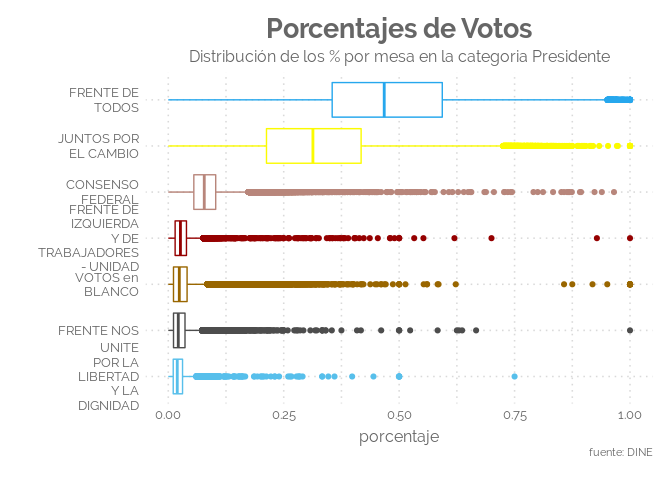
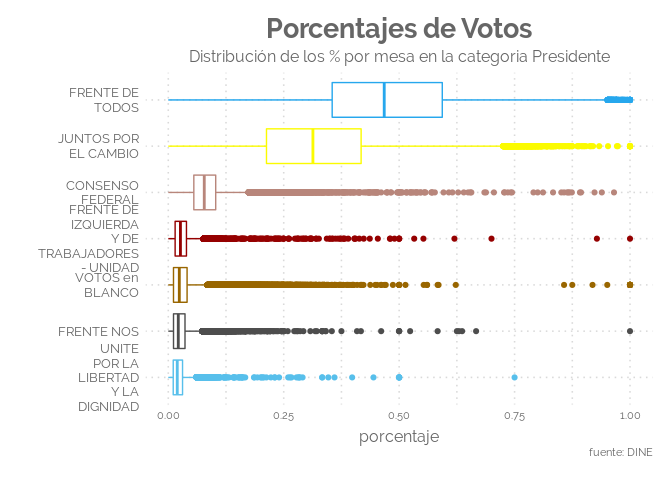
add work on paso 2019

diff --git a/_posts/2019/2019-08-20-paso-2019-algunos-datos.md b/_posts/2019/2019-08-20-paso-2019-algunos-datos.md
@@ -211,7 +211,9 @@ votos_porcentaje %>%
     filter(total_votos > quantile(total_votos, .3)) -> top
 
 colores <- c("#26a7ed", "#fbfb00", "#b8867b", "#950000", "#996600", "#4d4d4d", "#57BFEB")    
+```
 
+``` r
 votos_porcentaje %>%
     inner_join(top, by = "nombre_meta_agrupacion") %>% 
     ggplot(aes(x=fct_reorder(nombre_meta_agrupacion, porcentaje), 
@@ -225,13 +227,14 @@ votos_porcentaje %>%
          caption="fuente: DINE", 
          x="",
          color=NULL) +
-    ggelegant::theme_elegante_std(base_family = "Raleway") +
-    theme(legend.position="none")
+    theme_elegante_std(base_family = "Raleway") +
+    theme(legend.position="none") +
+    theme(axis.text.x = element_text(size=8))
 ```
 
 ![](/images/2019/2019-08-20-paso-2019-algunos-datos_files/figure-markdown_github/boxplot-1.png)
 
-Es interesante ver el \*\* boxplot\*\* y ver los "outliers" en particular los que caen el limite máximo, son las mesas dónde solo hay votos para una determinada agrupación. Interesante que en estos casos se vulnera fácilmente el secreto del voto.
+Es interesante ver el **boxplot** y ver los "outliers" en particular los que caen el limite máximo, son las mesas dónde solo hay votos para una determinada agrupación. Interesante que en estos casos se vulnera fácilmente el secreto del voto.
 
 ``` r
 # Mesas con el 100% de votos a una agrupación
@@ -256,3 +259,5 @@ votos_porcentaje %>%
     ## 4 FRENTE DE IZQUIERDA Y DE TRABAJADORES - UNIDAD     1     3
     ## 5 MOVIMIENTO AL SOCIALISMO                           1     2
     ## 6 FRENTE NOS                                         1     1
+
+No lo voy a hacer, pero claramente es muy fácil llegar a estas mesas, para luego ir al padrón y relacionar votos con personas, claro aún faltaría saber exactamente quienes votaron y quienes no concurrieron, pero en estos casos es claro que es muy sencillo vulnerar el secreto.
